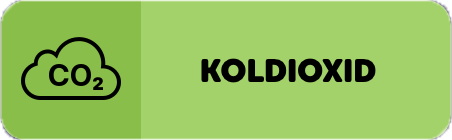
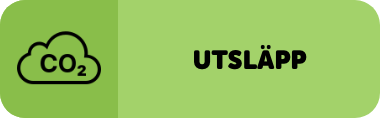
Uppdaterade knappar startsidan

Changed region(s): [[0.0, 0.0, 1.0, 1.0], [0.4342, 0.3814, 0.8395, 0.6102], [0.0868, 0.7119, 0.2316, 0.7373]]

diff --git a/src/components/Temperatur.js b/src/components/Temperatur.js
@@ -17,7 +17,7 @@ export default class Temperatur extends Component {
                 </Row>
                 <Row>
                 <Col>
-                <h2>Temperatur</h2>
+                <h2>Temperaturer</h2>
                 <p>
                 Lorem ipsum dolor sit amet, consectetur adipiscing elit, sed do eiusmod tempor incididunt ut labore et dolore 
                 magna aliqua. Ut enim ad minim veniam, quis nostrud exercitation ullamco laboris nisi ut aliquip ex ea commodo 

diff --git a/src/components/Glaciar.js b/src/components/Glaciar.js
@@ -17,7 +17,7 @@ export default class Glaciar extends Component {
                 </Row>
                 <Row>
                 <Col>
-                <h2>Glaciärer</h2>
+                <h2>Havsnivåer</h2>
                 <p>
                 Lorem ipsum dolor sit amet, consectetur adipiscing elit, sed do eiusmod tempor incididunt ut labore et dolore 
                 magna aliqua. Ut enim ad minim veniam, quis nostrud exercitation ullamco laboris nisi ut aliquip ex ea commodo 

diff --git a/src/components/Koldioxid.js b/src/components/Koldioxid.js
@@ -17,7 +17,7 @@ export default class Koldioxid extends Component {
                 </Row>
                 <Row>
                 <Col>
-                <h2>Koldioxid</h2>
+                <h2>Utsläpp</h2>
                 <p>
                 Koldioxid är en viktig gas för växter. Du har säkert hört om fotosyntesen, där växter med hjälp av solenergi och 
                 vatten omvandlar koldioxid till druvsocker, ett näringsämne för växterna. 
